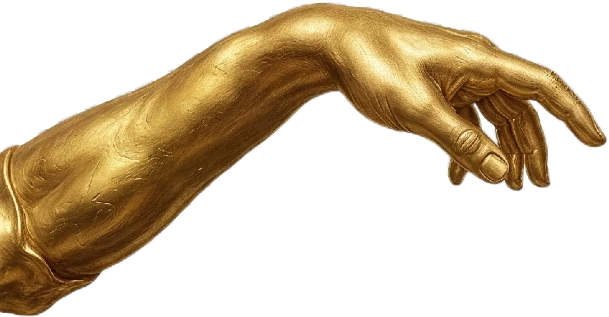
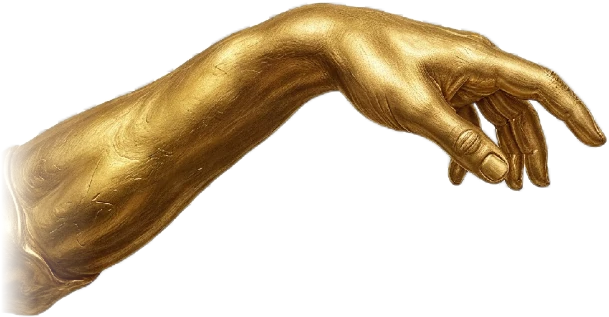
Make the Eden opening smooth on phones
- Ignore height-only resizes on touch, so the address bar no longer
  reallocates the ice canvas or re-scatters the petals
- No scrubbed text blur, arc glow filter or backdrop blur on phones
- Bake the sleeve-end fades into the hand images instead of CSS masks
- Rotate the hold's tick ring as its own layer; cache per-frame style writes
- Lower the petal canvas resolution on phones

Changed region(s): [[0.0, 0.3691, 0.156, 1.0]]

diff --git a/src/js/eden.js b/src/js/eden.js
@@ -1,4 +1,5 @@
 import gsap from 'gsap';
+import { isTouch, isLowPower } from './device.js';
 
 /* ============================================================
    EDEN — the opening scene, after the countdown.
@@ -25,6 +26,22 @@ import gsap from 'gsap';
    ============================================================ */
 
 const $ = (s) => document.querySelector(s);
+/* Phones pay for every style write, even an unchanged one — this scene
+   writes a lot of them each frame, so each goes through a cache. */
+const put = (el, prop, v) => {
+  const k = '_' + prop;
+  if (el[k] === v) return;
+  el[k] = v;
+  el.style[prop] = v;
+};
+const putVar = (el, name, v) => {
+  const k = '_v' + name;
+  if (el[k] === v) return;
+  el[k] = v;
+  el.style.setProperty(name, v);
+};
+/* scrubbed blurs re-rasterise every frame; a phone GPU drops frames on them */
+const BLUR = !isLowPower;
 const clamp = (v, a = 0, b = 1) => Math.min(b, Math.max(a, v));
 const lerp = (a, b, t) => a + (b - a) * t;
 const seg = (p, a, b) => clamp((p - a) / (b - a));
@@ -171,7 +188,12 @@ function createIce(canvas) {
   img.onerror = () => onFail();
   img.src = ICE_SRC;
 
+  let lastW = 0;
   function resize() {
+    /* a phone's address bar changes only the height; the buffer simply
+       stretches a few percent — reallocating it blanked the frame */
+    if (isTouch && lastW === innerWidth && canvas.width) return;
+    lastW = innerWidth;
     const scale = Math.min(window.devicePixelRatio || 1, 1.5);
     const w = innerWidth * scale;
     const h = innerHeight * scale;
@@ -260,7 +282,7 @@ function petalField(canvas, opts, SPR) {
   };
 
   function resize(w, h) {
-    dpr = Math.min(window.devicePixelRatio || 1, 2);
+    dpr = Math.min(window.devicePixelRatio || 1, isLowPower ? 1.5 : 2);
     W = w; H = h;
     canvas.width = Math.round(w * dpr);
     canvas.height = Math.round(h * dpr);
@@ -378,6 +400,7 @@ const mixPose = (a, b, t) => {
 export function initEden({ lenis } = {}) {
   const hero = $('#eden');
   if (!hero) return { reveal() {} };
+  document.documentElement.classList.toggle('is-lowpower', isLowPower);
 
   const introEl = $('#edenIntro');
   const stage = $('#edenStage');
@@ -487,9 +510,10 @@ export function initEden({ lenis } = {}) {
       const inn = E.out(seg(p, a + off, b + off * 0.2));
       const out = E.in(seg(p, c + off * 0.4, d));
       const o = inn * (1 - out);
-      el.style.opacity = o.toFixed(3);
-      el.style.transform = `translate3d(0,${((1 - inn) * 34 - out * 30).toFixed(2)}px,0)`;
-      el.style.filter = o < 0.995 ? `blur(${((1 - inn) * 12 + out * 10).toFixed(2)}px)` : '';
+      put(el, 'opacity', o.toFixed(3));
+      /* hidden words keep their last position — nothing to see moving */
+      if (o > 0.001) put(el, 'transform', `translate3d(0,${((1 - inn) * 34 - out * 30).toFixed(1)}px,0)`);
+      if (BLUR) put(el, 'filter', o < 0.995 && o > 0.001 ? `blur(${((1 - inn) * 12 + out * 10).toFixed(1)}px)` : '');
     });
   }
 
@@ -529,8 +553,8 @@ export function initEden({ lenis } = {}) {
       introEl.style.setProperty('--r', (portal * H).toFixed(1) + 'px');
       introEl.style.opacity = sheetA;
     }
-    scrollHint.style.opacity = (hintOn * (1 - seg(oRaw, 0.01, 0.08))).toFixed(3);
-    jobWrap.style.opacity = E.smooth(seg(o, 0.5, 0.9)).toFixed(3);
+    put(scrollHint, 'opacity', (hintOn * (1 - seg(oRaw, 0.01, 0.08))).toFixed(3));
+    put(jobWrap, 'opacity', E.smooth(seg(o, 0.5, 0.9)).toFixed(3));
 
     const pRaw = clamp((y - hero.offsetTop - OPEN * H) / (hero.offsetHeight - H - OPEN * H));
     /* a softer follow than the wheel itself, so each beat glides in */
@@ -562,9 +586,7 @@ export function initEden({ lenis } = {}) {
     const touchT = connected ? 1 : Math.max(E.inOut(holdV) * 0.92, auto);
     touchS = lerp(touchS, touchT, 1 - Math.exp(-dt * (connected ? 6 : 10)));
     holdArc.style.strokeDashoffset = (ARC * (1 - (connected ? 1 : holdV))).toFixed(2);
-    hold.style.setProperty('--hv', (connected ? 1 : holdE).toFixed(3));
-    tickA = (tickA + dt * (14 + 260 * holdE * holdE)) % 360;
-    holdTicks.setAttribute('transform', `rotate(${tickA.toFixed(2)} 52 52)`);
+    putVar(hold, '--hv', (connected ? 1 : holdE).toFixed(2));
     nudgeT = Math.max(0, nudgeT - dt);
     const lbl = connected ? 'Connected'
       : pressing ? 'Keep holding'
@@ -593,42 +615,51 @@ export function initEden({ lenis } = {}) {
     const hy = mY * 10;
     setPose(handL, IMG.L, C.x + pose.lx * U + hx, C.y + pose.ly * U + Math.sin(t * 0.9) * 5 * idle + hy, pose.lr + Math.sin(t * 0.6) * 0.6 * idle + mX * 1.2, sc);
     setPose(handR, IMG.R, C.x + pose.rx * U + hx, C.y + pose.ry * U + Math.sin(t * 0.75 + 1.3) * 6 * idle + hy, pose.rr + Math.sin(t * 0.55 + 2) * 0.7 * idle + mX * 1.2, sc);
-    handL.style.opacity = handR.style.opacity = clamp(introT * 3).toFixed(3);
+    const handO = clamp(introT * 3).toFixed(3);
+    put(handL, 'opacity', handO);
+    put(handR, 'opacity', handO);
 
     /* contact glow */
     const cx = C.x + (pose.lx + pose.rx) / 2 * U + hx;
     const cy = C.y + (pose.ly + pose.ry) / 2 * U + U * 0.004 + hy;
     sparkPulse = Math.max(0, sparkPulse - dt * 0.9);
     const glow = Math.pow(touchS, 4) * (0.75 + 0.25 * Math.sin(t * 3)) + sparkPulse * 1.2;
-    spark.style.opacity = clamp(glow * (1 - retreat)).toFixed(3);
-    spark.style.transform = `translate3d(${cx}px,${cy}px,0) scale(${(0.32 + glow * 0.5 + dive * 3).toFixed(3)})`;
+    put(spark, 'opacity', clamp(glow * (1 - retreat)).toFixed(3));
+    if (glow * (1 - retreat) > 0.001) spark.style.transform = `translate3d(${cx}px,${cy}px,0) scale(${(0.32 + glow * 0.5 + dive * 3).toFixed(3)})`;
 
     /* hold control — blooms in from small, a touch past full size, and
        settles, so the eye is pulled to it before the copy asks */
     const holdIn = seg(p, 0.6, 0.66);
     const holdVis = holdIn * (1 - seg(p, 0.8, 0.84)) * (connected ? 0 : 1) * (uiOn ? 1 : 0);
     const bloom = holdIn < 1 ? 0.55 + 0.45 * E.out(holdIn) + 0.08 * Math.sin(holdIn * Math.PI) : 1;
-    hold.style.opacity = E.out(holdVis).toFixed(3);
-    hold.style.transform = `translate3d(${cx}px,${cy}px,0) scale(${bloom.toFixed(3)})`;
+    put(hold, 'opacity', E.out(holdVis).toFixed(3));
+    if (holdVis > 0) {
+      put(hold, 'transform', `translate3d(${cx.toFixed(1)}px,${cy.toFixed(1)}px,0) scale(${bloom.toFixed(3)})`);
+      /* the tick ring turns on its own compositor layer */
+      tickA = (tickA + dt * (14 + 260 * holdE * holdE)) % 360;
+      holdTicks.style.transform = `rotate(${tickA.toFixed(1)}deg)`;
+    }
     hold.classList.toggle('is-live', holdVis > 0.5);
     if (holdVis < 0.5 && pressing) endPress();
 
     /* copy — the title holds a beat, then the belief reads in three
        lines, the last one staying up through the hold */
     const jobOut = seg(p, 0.08, 0.2);
-    job.style.opacity = (1 - E.smooth(jobOut)).toFixed(3);
-    job.style.filter = jobOut > 0.001 ? `blur(${(jobOut * 14).toFixed(2)}px)` : '';
-    jobLetters.forEach((l, i) => {
-      const off = i - (jobLetters.length - 1) / 2;
-      l.style.transform = `translate3d(${(off * jobOut * 60).toFixed(2)}px,${(-jobOut * 40 - Math.abs(off) * jobOut * 10).toFixed(2)}px,0) scale(${(1 + jobOut * 0.25).toFixed(3)})`;
-    });
+    put(job, 'opacity', (1 - E.smooth(jobOut)).toFixed(3));
+    if (BLUR) put(job, 'filter', jobOut > 0.001 && jobOut < 0.999 ? `blur(${(jobOut * 14).toFixed(1)}px)` : '');
+    if (jobOut < 1) {
+      jobLetters.forEach((l, i) => {
+        const off = i - (jobLetters.length - 1) / 2;
+        put(l, 'transform', `translate3d(${(off * jobOut * 60).toFixed(1)}px,${(-jobOut * 40 - Math.abs(off) * jobOut * 10).toFixed(1)}px,0) scale(${(1 + jobOut * 0.25).toFixed(3)})`);
+      });
+    }
     words(w1, p, 0.2, 0.28, 0.37, 0.42);
     words(w2, p, 0.42, 0.5, 0.56, 0.6);
     words(w3, p, 0.6, 0.68, 0.8, 0.85);
     /* the light: a white bloom first, then it settles to the hero's flat
        frost ground, which is what the hero's smoke rises out of */
-    flash.style.opacity = E.smooth(seg(p, 0.86, 0.96)).toFixed(3);
-    flash.style.setProperty('--bloom', (1 - E.smooth(seg(p, 0.95, 1))).toFixed(3));
+    put(flash, 'opacity', E.smooth(seg(p, 0.86, 0.96)).toFixed(3));
+    putVar(flash, '--bloom', (1 - E.smooth(seg(p, 0.95, 1))).toFixed(3));
 
     /* petals */
     back.step(dt, 18 + k * 10, vel * 0.5);
@@ -750,7 +781,13 @@ export function initEden({ lenis } = {}) {
   });
 
   let rT;
+  let resizeW = innerWidth;
   addEventListener('resize', () => {
+    /* a phone's address bar showing or hiding fires resize on every scroll
+       direction change. The stage is 100vh (the large viewport), so nothing
+       here depends on it — rebuilding re-scattered every petal. */
+    if (isTouch && innerWidth === resizeW) return;
+    resizeW = innerWidth;
     clearTimeout(rT);
     rT = setTimeout(() => { layout(); setWall(); }, 80);
   });

diff --git a/src/styles/eden.css b/src/styles/eden.css
@@ -129,14 +129,11 @@ html.eden-gated .foot { display: none; }
   backface-visibility: hidden;
 }
 .eden-hand--l {
-  /* only the sleeve end softens; the arm itself stays solid */
-  -webkit-mask-image: linear-gradient(90deg, transparent 0%, rgba(0, 0, 0, 0.7) 6%, #000 16%);
-  mask-image: linear-gradient(90deg, transparent 0%, rgba(0, 0, 0, 0.7) 6%, #000 16%);
+  /* the sleeve-end fade is baked into the image: a CSS mask on an element
+     that moves every frame is re-rasterised on some phones */
 }
 .eden-hand--r {
-  /* its forearm leaves through the right edge */
-  -webkit-mask-image: linear-gradient(270deg, transparent 0%, rgba(0, 0, 0, 0.7) 6%, #000 16%);
-  mask-image: linear-gradient(270deg, transparent 0%, rgba(0, 0, 0, 0.7) 6%, #000 16%);
+  /* its forearm leaves through the right edge (fade baked in, as above) */
 }
 
 .eden-spark {
@@ -305,7 +302,8 @@ html.eden-gated .foot { display: none; }
   background: linear-gradient(180deg, rgba(255, 255, 255, 0.55), rgba(255, 255, 255, 0));
 }
 
-.eden-hold__rings {
+.eden-hold__rings,
+.eden-hold__ticks {
   position: absolute;
   inset: 0;
   width: 100%;
@@ -313,6 +311,8 @@ html.eden-gated .foot { display: none; }
   overflow: visible;
   transform: rotate(-90deg);
 }
+/* turned every frame by eden.js — its own layer, so nothing repaints */
+.eden-hold__ticks { will-change: transform; }
 .eden-hold__arc {
   filter: drop-shadow(0 0 3px rgba(255, 255, 255, 0.95)) drop-shadow(0 0 8px rgba(255, 255, 255, 0.8));
 }
@@ -429,6 +429,16 @@ html.eden-gated .foot { display: none; }
   animation: eden-dot 1.6s ease-in-out infinite;
 }
 @keyframes eden-dot { 50% { transform: translateY(5px); } }
+
+/* phones (html.is-lowpower, set by eden.js): the arc glow is an SVG filter
+   re-rendered as the arc fills, and the SCROLL pill's backdrop blur sits
+   over the ice, which moves every frame — both are pure cost there */
+.is-lowpower .eden-hold__arc { filter: none; stroke-width: 3.5; }
+.is-lowpower .eden-hint {
+  -webkit-backdrop-filter: none;
+  backdrop-filter: none;
+  background: rgba(255, 255, 255, 0.84);
+}
 
 @media (max-width: 820px) {
   .eden-statement { top: 9%; font-size: clamp(26px, 7vw, 40px); width: min(90vw, 18ch); }

diff --git a/index.html b/index.html
@@ -86,6 +86,9 @@
           <span class="eden-hold__glow"></span>
           <span class="eden-hold__ripple"></span><span class="eden-hold__ripple"></span>
           <span class="eden-hold__lens"></span>
+          <svg class="eden-hold__ticks" id="edenHoldTicks" viewBox="0 0 104 104" aria-hidden="true">
+            <circle cx="52" cy="52" r="52" fill="none" stroke="rgba(255,255,255,.9)" stroke-width="5" stroke-dasharray="0.9 7.27"/>
+          </svg>
           <svg class="eden-hold__rings" viewBox="0 0 104 104" aria-hidden="true">
             <defs>
               <linearGradient id="edenArcGrad" x1="0" y1="0" x2="1" y2="1">
@@ -93,7 +96,6 @@
                 <stop offset="1" stop-color="#ffffff" stop-opacity=".8"/>
               </linearGradient>
             </defs>
-            <g id="edenHoldTicks"><circle cx="52" cy="52" r="52" fill="none" stroke="rgba(255,255,255,.9)" stroke-width="5" stroke-dasharray="0.9 7.27"/></g>
             <circle cx="52" cy="52" r="44" fill="none" stroke="rgba(255,255,255,.35)" stroke-width="1.5"/>
             <circle class="eden-hold__arc" id="edenHoldArc" cx="52" cy="52" r="44" fill="none" stroke="url(#edenArcGrad)" stroke-width="3" stroke-linecap="round" stroke-dasharray="276.46" stroke-dashoffset="276.46"/>
           </svg>

diff --git a/CLAUDE.md b/CLAUDE.md
@@ -64,7 +64,12 @@ a section.
   from one PNG at the gap between them). `IMG` in eden.js holds their 1x
   size and fingertip fractions; `HS` sizes them (27% of the width on desktop,
   48% on phones). The current cut includes forearms.
-  The hold control's light is white only (no mint).
+  The hold control's light is white only (no mint). The sleeve-end fades are
+  baked into the webps (no CSS masks on the moving hands).
+- **Eden on phones** (`html.is-lowpower`, set by eden.js): no scrubbed text
+  blur, no arc glow filter, no backdrop blur on the SCROLL pill; resize
+  ignores height-only changes (address bar); style writes go through the
+  `put`/`putVar` cache; the tick ring rotates as its own layer.
 - The hero cursor trail blends `multiply` with a `tint` (main.js);
   `heroInk.js` is no longer wired in.
 - No `backdrop-filter` over smooth gradients or on moving elements, no
